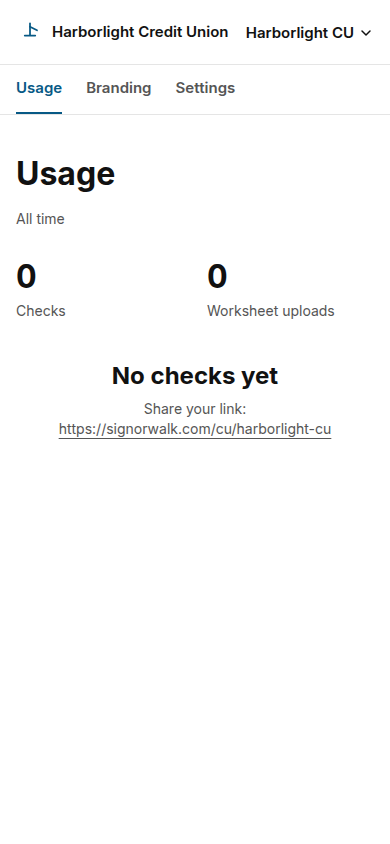
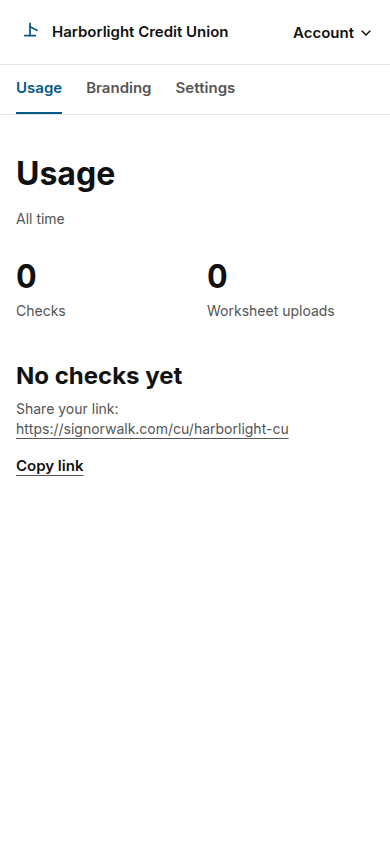
Apply the credit-union layout fixes from the design review.
The upload disclosure sits under the price cards, phone results clear the fixed button, and the empty state can copy its link.

Changed region(s): [[0.0308, 0.4313, 0.8615, 0.5853], [0.6154, 0.0308, 0.9231, 0.0616]]

diff --git a/src/app/cu/[tenant]/dashboard/BrandingForm.tsx b/src/app/cu/[tenant]/dashboard/BrandingForm.tsx
@@ -20,7 +20,8 @@ function Swatch({ label, color }: { label: string; color: string }) {
   return (
     <div>
       <span className="block h-6 w-6" style={{ backgroundColor: color }} aria-hidden="true" />
-      <span className="mt-2 block text-[14px] leading-[20px] cu-muted">{label}</span>
+      <span className="mt-2 block font-mono text-[14px] leading-[20px] tabular-nums cu-muted">{color}</span>
+      <span className="block text-[14px] leading-[20px] cu-muted">{label}</span>
     </div>
   );
 }
@@ -28,11 +29,17 @@ function Swatch({ label, color }: { label: string; color: string }) {
 function LogoStage({ src, dark }: { src: string; dark?: boolean }) {
   if (!src) return null;
   return (
-    <div className={`mt-2 inline-flex items-center ${dark ? 'cu-solid px-3 py-2' : 'bg-white'}`}>
+    <div
+      className="mt-2 inline-flex items-center rounded-lg px-3 py-2"
+      style={{ backgroundColor: dark ? '#111111' : '#ffffff', border: '1px solid #E5E5E5' }}
+    >
       <img src={src} alt="" className="h-8 w-auto max-w-[160px] object-contain" />
     </div>
   );
 }
+
+const fileInput =
+  'cu-ring mt-2 block w-full text-[14px] font-normal cu-muted file:mr-3 file:h-12 file:cursor-pointer file:rounded-lg file:border file:border-solid file:border-[#E5E5E5] file:bg-white file:px-4 file:text-[15px] file:font-semibold file:text-[#111] md:file:h-11';
 
 export function BrandingForm({
   tenantId,
@@ -108,7 +115,7 @@ export function BrandingForm({
             type="file"
             accept="image/png,image/jpeg,image/webp,image/svg+xml"
             onChange={event => stage(event.target.files?.[0], setLightSrc)}
-            className="mt-2 block w-full text-[15px] font-normal"
+            className={fileInput}
           />
         </label>
         <LogoStage src={lightSrc} />
@@ -120,7 +127,7 @@ export function BrandingForm({
             type="file"
             accept="image/png,image/jpeg,image/webp,image/svg+xml"
             onChange={event => stage(event.target.files?.[0], setDarkSrc)}
-            className="mt-2 block w-full text-[15px] font-normal"
+            className={fileInput}
           />
         </label>
         {darkSrc ? <LogoStage src={darkSrc} dark /> : null}

diff --git a/src/app/cu/admin/page.tsx b/src/app/cu/admin/page.tsx
@@ -53,9 +53,9 @@ export default async function AdminPage() {
             <thead>
               <tr className="border-b cu-line text-[14px] leading-[20px] cu-muted">
                 <th className="py-3 pr-4 font-semibold">Credit union</th>
-                <th className="py-3 pr-4 font-semibold">Checks</th>
-                <th className="py-3 pr-4 font-semibold">Uploads</th>
-                <th className="py-3 pr-4 font-semibold">Email</th>
+                <th className="py-3 pr-4 text-right font-semibold">Checks</th>
+                <th className="py-3 pr-4 text-right font-semibold">Uploads</th>
+                <th className="hidden py-3 pr-4 font-semibold md:table-cell">Email</th>
                 <th className="py-3 font-semibold">Dashboard</th>
               </tr>
             </thead>
@@ -63,9 +63,9 @@ export default async function AdminPage() {
               {rows.map(row => (
                 <tr key={row.tenant.id} className="border-b cu-line text-[15px] leading-[20px]">
                   <td className="py-3 pr-4">{row.tenant.name}</td>
-                  <td className="py-3 pr-4 tabular-nums">{row.aggregates.checks}</td>
-                  <td className="py-3 pr-4 tabular-nums">{row.aggregates.uploads}</td>
-                  <td className="py-3 pr-4">{row.settings.emailEnabled ? 'On' : 'Off'}</td>
+                  <td className="py-3 pr-4 text-right tabular-nums">{row.aggregates.checks}</td>
+                  <td className="py-3 pr-4 text-right tabular-nums">{row.aggregates.uploads}</td>
+                  <td className="hidden py-3 pr-4 md:table-cell">{row.settings.emailEnabled ? 'On' : 'Off'}</td>
                   <td className="py-3"><a className="font-semibold underline underline-offset-4 cu-linkline" href={`/cu/${row.tenant.id}/dashboard`}>{row.tenant.brand.shortName}</a></td>
                 </tr>
               ))}

diff --git a/test/cu-platform.test.ts b/test/cu-platform.test.ts
@@ -199,7 +199,8 @@ test('growth copy and the worksheet route stay on the approved words', () => {
   assert.equal(page.includes('Most chosen'), false);
   assert.equal(/\bfees?\b/i.test(page), false);
   assert.equal(/\bfees?\b/i.test(started), false);
-  assert.equal(page.includes('UPLOAD_DISCLOSURE'), false);
+  assert.match(page, /text-\[14px\] leading-\[20px\] cu-muted">\{UPLOAD_DISCLOSURE\}/);
+  assert.match(page, /\{VALUE_LINE\}/);
   assert.equal(page.includes(value), true);
   assert.match(page, /description: VALUE_LINE/);
   assert.match(page, /Over \$5B\? Email us\./);
@@ -213,6 +214,20 @@ test('growth copy and the worksheet route stay on the approved words', () => {
   assert.equal(dashboard.includes('Since pilot start'), false);
   assert.match(dashboard, /All time/);
   assert.match(dashboard, /href=\{shareUrl\}/);
+  assert.match(dashboard, /text-left/);
+  assert.equal(dashboard.includes('text-center'), false);
+  assert.match(dashboard, /CopyLink/);
+  assert.match(readFileSync('src/app/cu/[tenant]/dashboard/CopyLink.tsx', 'utf8'), /Copy link/);
+  assert.match(readFileSync('src/app/cu/AccountMenu.tsx', 'utf8'), /md:hidden">Account/);
+  assert.match(form, /pb-\[120px\]/);
+  assert.match(admin, /hidden py-3 pr-4 font-semibold md:table-cell">Email/);
+  assert.match(admin, /text-right font-semibold">Checks/);
+  assert.match(admin, /text-right tabular-nums/);
+  const branding = readFileSync('src/app/cu/[tenant]/dashboard/BrandingForm.tsx', 'utf8');
+  assert.match(branding, /h-8 /);
+  assert.match(branding, /#111111/);
+  assert.match(branding, /file:border-\[#E5E5E5\]/);
+  assert.equal(branding.includes('Check the short name and colors.'), false);
   assert.equal(admin.includes('Tenants'), false);
   assert.equal(admin.includes('Accounts'), false);
   assert.match(admin, /Credit unions/);

diff --git a/src/app/cu/[tenant]/dashboard/page.tsx b/src/app/cu/[tenant]/dashboard/page.tsx
@@ -9,6 +9,7 @@ import { saveSettingsAction, sendSummaryAction } from '../../actions';
 import { BrandLockup } from '../../BrandLockup';
 import { StaffHeader } from '../../StaffHeader';
 import { BrandingForm } from './BrandingForm';
+import { CopyLink } from './CopyLink';
 
 export const dynamic = 'force-dynamic';
 
@@ -138,11 +139,12 @@ export default async function DashboardPage({
             </p>
           </div>
           {aggregates.checks === 0 ? (
-            <div className="mx-auto mt-10 w-full max-w-[560px] text-center">
+            <div className="mt-10 max-w-[560px] text-left">
               <h2 className="text-[24px] font-bold leading-[30px]">No checks yet</h2>
               <p className="mt-2 text-[14px] leading-[20px] cu-muted">
                 Share your link: <a href={shareUrl} className="underline underline-offset-4 cu-linkline">{shareUrl}</a>
               </p>
+              <CopyLink url={shareUrl} />
             </div>
           ) : (
             <div className="mt-10">

diff --git a/src/app/credit-unions/page.tsx b/src/app/credit-unions/page.tsx
@@ -1,5 +1,6 @@
 import Link from 'next/link';
 import type { Metadata } from 'next';
+import { UPLOAD_DISCLOSURE } from '@/cu/copy';
 import { DOCUMENT_VERSION_LABEL, formatUsd, TALK_TO_US_EMAIL, pricedTiers, type PricedTierId } from './pricing';
 
 const PAGE_URL = 'https://signorwalk.com/credit-unions';
@@ -73,7 +74,8 @@ export default function CreditUnionsPage() {
             })}
           </ul>
 
-          <p className="mt-10">
+          <p className="mt-10 text-[14px] leading-[20px] cu-muted">{UPLOAD_DISCLOSURE}</p>
+          <p className="mt-4">
             <a href={`mailto:${TALK_TO_US_EMAIL}`} className={textLink}>Over $5B? Email us.</a>
             {' · '}
             <a href="/credit-unions/packet" className={textLink}>Download due-diligence packet ({DOCUMENT_VERSION_LABEL})</a>

diff --git a/src/app/cu/[tenant]/CheckForm.tsx b/src/app/cu/[tenant]/CheckForm.tsx
@@ -234,7 +234,7 @@ export function CheckForm({ tenant, brand }: { tenant: CuPublic; brand: DerivedB
     const rest = report.itemsToReview.slice(3);
     const gradeColor = GRADE_FILL[report.grade] ?? '#111111';
     return (
-      <div className="mx-auto w-full max-w-[560px] px-4 pb-24 pt-16 md:pb-16 md:pt-24">
+      <div className="mx-auto w-full max-w-[560px] px-4 pb-[120px] pt-16 md:pb-16 md:pt-24">
         <div className="flex flex-col md:flex-row md:items-center md:gap-4">
           <p className="text-[14px] leading-[20px] cu-muted md:hidden">Grade</p>
           <p

diff --git a/src/app/cu/[tenant]/dashboard/CopyLink.tsx b/src/app/cu/[tenant]/dashboard/CopyLink.tsx
@@ -1,0 +1,15 @@
+'use client';
+
+export function CopyLink({ url }: { url: string }) {
+  return (
+    <button
+      type="button"
+      className="mt-4 text-[15px] font-semibold underline decoration-1 underline-offset-4 cu-linkline cu-ink"
+      onClick={() => {
+        void navigator.clipboard.writeText(url).catch(() => undefined);
+      }}
+    >
+      Copy link
+    </button>
+  );
+}

diff --git a/src/app/cu/AccountMenu.tsx b/src/app/cu/AccountMenu.tsx
@@ -41,7 +41,8 @@ export function AccountMenu({ tenant, label }: { tenant: string; label: string }
         aria-controls={menuId}
         onClick={() => setOpen(value => !value)}
       >
-        {label}
+        <span className="md:hidden">Account</span>
+        <span className="hidden md:inline">{label}</span>
         <Chevron open={open} />
       </button>
       {open ? (
